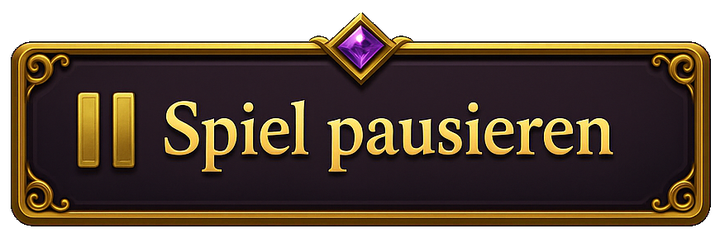
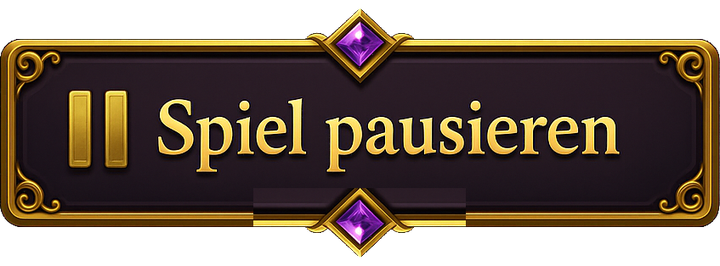
Spieltisch-Buttons: unterer Edelstein ergänzt (gespiegelt), nichts mehr abgeschnitten
Ursache gefunden: das generierte 4er-Set hatte nur OBEN Edelsteine – der
"abgeschnittene" Eindruck unten war ein fehlender Gem, kein Crop-Fehler.
Fix: oberen Gem+Fassung pixelgenau nach unten gespiegelt (weiche Chroma-
Matte, Alpha-Bereinigung gegen Schatten-Schmieren), alle vier einheitlich
720x266. CSS-aspect-ratio 720/266, Versionen gebumpt. Im Spiel verifiziert:
oben und unten kompletter Diamant bei allen vier Buttons.

diff --git a/index.html b/index.html
@@ -1042,9 +1042,9 @@
   .action-dock { display: flex; justify-content: center; margin-top: 6px; min-height: 104px; align-items: center; }
   /* "Stiche ansagen": fertige Grafik (Text ist Teil des Bildes). */
   .bid-open-btn {
-    background: url('lobby/ui-bid.png?v=4') center/100% 100% no-repeat;
+    background: url('lobby/ui-bid.png?v=5') center/100% 100% no-repeat;
     border: none; box-shadow: none; color: transparent; font-size: 0; padding: 0;
-    width: clamp(120px, 29vw, 224px); aspect-ratio: 720 / 238;
+    width: clamp(120px, 29vw, 224px); aspect-ratio: 720 / 266;
     display: inline-block; cursor: pointer;
     animation: bidPulse 1.9s ease-in-out infinite;
   }
@@ -1266,9 +1266,9 @@
   /* "Alle Karten": gemalte Pille als Hintergrund */
   .hand-view-btn {
     position: static; z-index: 6;
-    border: none; box-shadow: none; background: url('lobby/ui-allcards.png?v=4') center/100% 100% no-repeat;
+    border: none; box-shadow: none; background: url('lobby/ui-allcards.png?v=5') center/100% 100% no-repeat;
     color: transparent; font-size: 0; padding: 0; cursor: pointer;
-    width: clamp(120px, 29vw, 224px); aspect-ratio: 720 / 238; display: inline-block;
+    width: clamp(120px, 29vw, 224px); aspect-ratio: 720 / 266; display: inline-block;
   }
   .hand-view-btn:hover { filter: brightness(1.1); }
   /* Steuer-Pillen mit gemalten Rahmen */
@@ -1306,10 +1306,10 @@
   .nav-btn {
     border: none; padding: 0; cursor: pointer; color: transparent; font-size: 0;
     background: center/100% 100% no-repeat;
-    width: clamp(150px, 45vw, 300px); aspect-ratio: 720 / 238;
+    width: clamp(150px, 45vw, 300px); aspect-ratio: 720 / 266;
   }
-  .nav-btn.nav-leave { background-image: url('lobby/nav-leave.png?v=3'); }
-  .nav-btn.nav-pause { background-image: url('lobby/nav-pause.png?v=3'); }
+  .nav-btn.nav-leave { background-image: url('lobby/nav-leave.png?v=4'); }
+  .nav-btn.nav-pause { background-image: url('lobby/nav-pause.png?v=4'); }
   .nav-btn:hover { filter: brightness(1.08); }
 
   /* Endstand-Rangliste (Spielende) */
